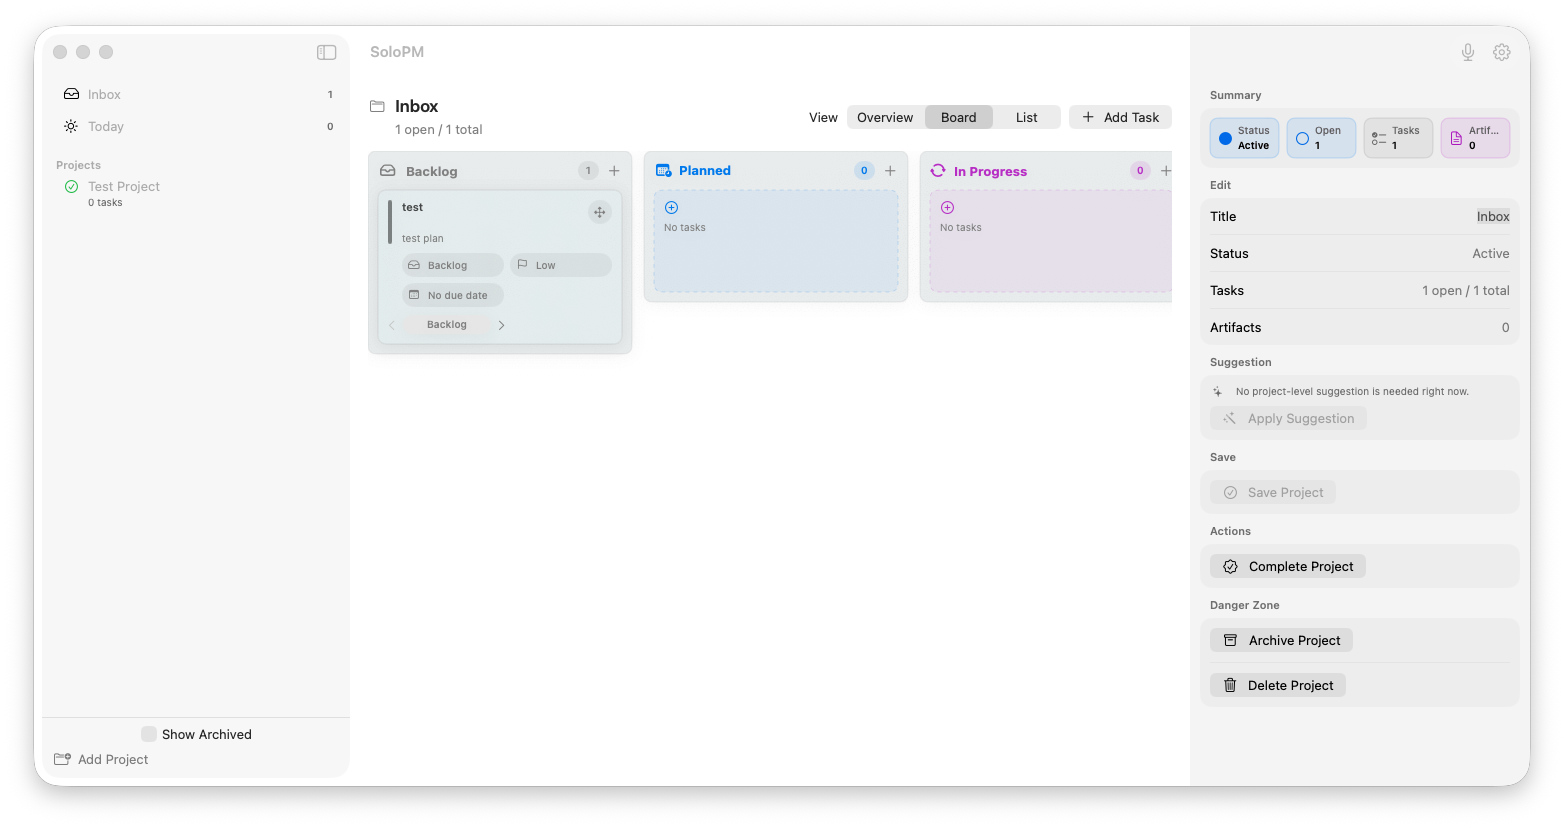
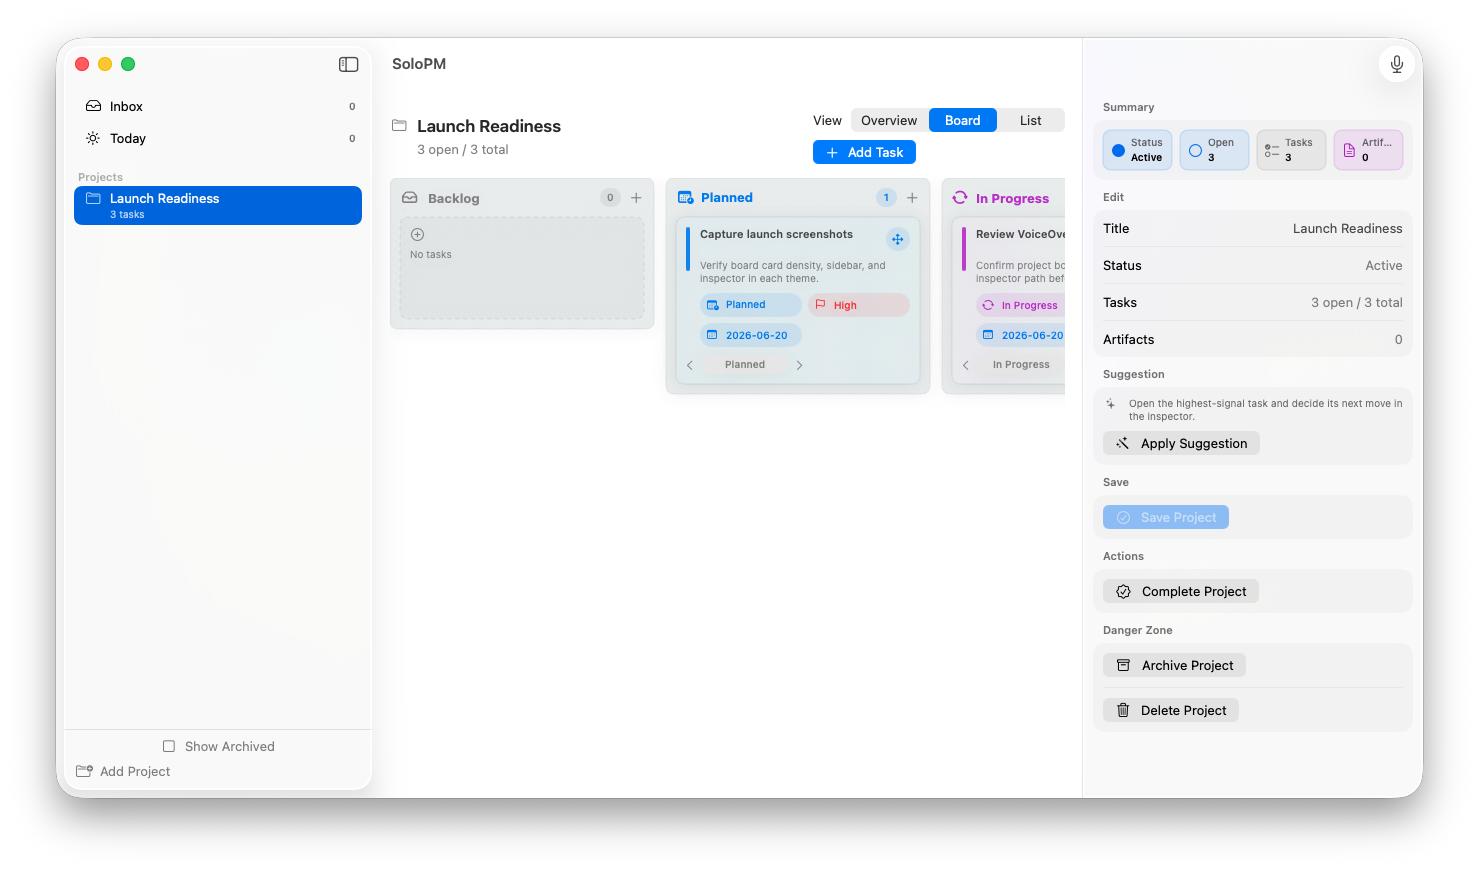
fix: move theme access to settings

diff --git a/Tests/SoloPMCoreTests/AppExperienceSourceTests.swift b/Tests/SoloPMCoreTests/AppExperienceSourceTests.swift
@@ -155,6 +155,8 @@ final class AppExperienceSourceTests: XCTestCase {
 
         XCTAssertTrue(sidebarSource.contains("Show Archived"))
         XCTAssertTrue(sidebarSource.contains("Add Project"))
+        XCTAssertFalse(sidebarSource.contains("SettingsLink"))
+        XCTAssertFalse(sidebarSource.contains("gearshape"))
         XCTAssertFalse(sidebarSource.contains("Theme"))
         XCTAssertFalse(sidebarSource.contains("Appearance"))
         XCTAssertFalse(sidebarSource.contains("SoloPMAppearancePreference"))
@@ -174,7 +176,10 @@ final class AppExperienceSourceTests: XCTestCase {
         let inspectorStart = try XCTUnwrap(boardSource.range(of: ".inspector(isPresented: inspectorBinding)"))
         let toolbarSource = String(boardSource[toolbarStart.lowerBound..<inspectorStart.lowerBound])
 
-        XCTAssertTrue(toolbarSource.contains("SettingsLink"))
+        XCTAssertFalse(toolbarSource.contains("SettingsLink"))
+        XCTAssertFalse(toolbarSource.contains("gearshape"))
+        XCTAssertFalse(toolbarSource.contains(".keyboardShortcut(\",\", modifiers: [.command])"))
+        XCTAssertFalse(toolbarSource.contains("Open Settings"))
         XCTAssertFalse(toolbarSource.contains("Theme"))
         XCTAssertFalse(toolbarSource.contains("Appearance"))
         XCTAssertFalse(toolbarSource.contains("SoloPMAppearancePreference"))
@@ -346,12 +351,15 @@ final class AppExperienceSourceTests: XCTestCase {
 
     func testProjectBoardExposesPrimaryCRUDKeyboardShortcuts() throws {
         let source = try readPackageFile("Sources/SoloPMApp/Views/ProjectBoardView.swift")
+        let appSource = try readPackageFile("Sources/SoloPMApp/SoloPMApp.swift")
 
         XCTAssertTrue(source.contains(".keyboardShortcut(\"n\", modifiers: [.command])"))
         XCTAssertTrue(source.contains(".keyboardShortcut(\"n\", modifiers: [.command, .shift])"))
-        XCTAssertTrue(source.contains(".keyboardShortcut(\",\", modifiers: [.command])"))
         XCTAssertTrue(source.contains(".help(\"Add a project\")"))
-        XCTAssertTrue(source.contains(".help(\"Open Settings\")"))
+        XCTAssertFalse(source.contains(".keyboardShortcut(\",\", modifiers: [.command])"))
+        XCTAssertFalse(source.contains(".help(\"Open Settings\")"))
+        XCTAssertTrue(appSource.contains("CommandGroup(replacing: .appSettings)"))
+        XCTAssertTrue(appSource.contains(".keyboardShortcut(\",\", modifiers: [.command])"))
     }
 
     func testInlineTaskComposerExposesKeyboardAndVoiceOverCreateAnchors() throws {

diff --git a/Tests/SoloPMCoreTests/ReleasePipelineTests.swift b/Tests/SoloPMCoreTests/ReleasePipelineTests.swift
@@ -2662,7 +2662,7 @@ final class ReleasePipelineTests: XCTestCase {
         XCTAssertTrue(script.contains("Sources/SoloPMApp/Views/ProjectWorkflowViews.swift::inbox-quick-add-button"))
         XCTAssertTrue(script.contains(#"Sources/SoloPMApp/Views/ProjectBoardView.swift::.keyboardShortcut(\"n\", modifiers: [.command])"#))
         XCTAssertTrue(script.contains(#"Sources/SoloPMApp/Views/ProjectBoardView.swift::.keyboardShortcut(\"n\", modifiers: [.command, .shift])"#))
-        XCTAssertTrue(script.contains(#"Sources/SoloPMApp/Views/ProjectBoardView.swift::.keyboardShortcut(\",\", modifiers: [.command])"#))
+        XCTAssertTrue(script.contains(#"Sources/SoloPMApp/SoloPMApp.swift::.keyboardShortcut(\",\", modifiers: [.command])"#))
         XCTAssertTrue(script.contains(#"Sources/SoloPMApp/Views/ProjectBoardView.swift::.keyboardShortcut(\"s\", modifiers: [.command])"#))
         XCTAssertTrue(script.contains("Sources/SoloPMApp/Views/ProjectBoardView.swift::.keyboardShortcut(.delete, modifiers: [.command])"))
         XCTAssertTrue(script.contains("Sources/SoloPMApp/Views/ProjectBoardView.swift::.keyboardShortcut(.return, modifiers: [.command])"))

diff --git a/Sources/SoloPMApp/SoloPMApp.swift b/Sources/SoloPMApp/SoloPMApp.swift
@@ -28,6 +28,14 @@ struct SoloPM: App {
                 .preferredColorScheme(effectiveAppearancePreference.colorScheme)
         }
         .defaultSize(width: 1180, height: 760)
+        .commands {
+            CommandGroup(replacing: .appSettings) {
+                SettingsLink {
+                    Label("Settings...", systemImage: "gearshape")
+                }
+                .keyboardShortcut(",", modifiers: [.command])
+            }
+        }
 
         Window("Voice Command", id: "voice-capture") {
             VoiceCaptureView(viewModel: AppRuntimeFactory.makeVoiceCaptureViewModel())

diff --git a/Sources/SoloPMApp/Views/ProjectBoardView.swift b/Sources/SoloPMApp/Views/ProjectBoardView.swift
@@ -107,12 +107,6 @@ struct ProjectBoardView: View {
                     } label: {
                         Label("Voice Command", systemImage: "mic")
                     }
-
-                    SettingsLink {
-                        Label("Settings", systemImage: "gearshape")
-                    }
-                    .keyboardShortcut(",", modifiers: [.command])
-                    .help("Open Settings")
                 }
             }
             .inspector(isPresented: inspectorBinding) {

diff --git a/docs/ux/click-path-audit.md b/docs/ux/click-path-audit.md
@@ -21,9 +21,9 @@
 
 | 画面 | 入口 | 現状 |
 | --- | --- | --- |
-| Project Board | 起動時のメインwindow、menu barの `Project Board`、board toolbar | SidebarにInbox、Today、Projectsが固定表示され、Project overview/board/list、task composer、inspector、Settings入口がある主要画面。 |
+| Project Board | 起動時のメインwindow、menu barの `Project Board` | SidebarにInbox、Today、Projectsが固定表示され、Project overview/board/list、task composer、inspectorを扱う主要画面。 |
 | Voice Command | board toolbarの `Voice Command`、menu barの `Voice Command` | CaptureとAI action reviewの導線がある。現状ではInboxの代替に近い。 |
-| Settings | board toolbarのgear、menu barのgear、macOS Settings scene | 先頭のStatus OverviewでAI Provider、MCP、Sync、Privacyを確認できる。詳細設定は下のFormに並ぶ。 |
+| Settings | macOS app menuの `Settings...`、menu barのgear、macOS Settings scene | 先頭のStatus OverviewでAI Provider、MCP、Sync、Privacyを確認できる。ThemeはSettings OverviewのAppearanceに集約する。 |
 | Inbox | sidebarの `Inbox` | 未処理taskを実データから表示し、Task化、Project化、今日へ予定、後で確認を選択中itemへ1クリックで適用できる。 |
 | Today | sidebarの `Today` | due/overdueの未完了taskを実データから表示し、overdue/today件数、local focus suggestion、30分単位のtime block、task inspectorへつながる。 |
 
@@ -55,7 +55,7 @@
 | Project提案適用 | sidebar project row -> inspector `Apply Suggestion` | 2 | Pass | 空Projectのfirst task作成、全Task完了Projectのcomplete、注目Taskを開く導線を外部LLMなしで実行する。 |
 | Project完了 | Project inspector -> `Complete Project` | 2 | Pass | headerから削除し、選択中Projectの操作をinspectorに集約した。 |
 | Project archive/delete | Project inspector -> action -> confirm | 3 | Pass | 破壊的操作なので確認があるのは妥当。 |
-| boardからSettingsを開く | toolbar gear | 1 | Pass | menu barからも2クリックで開ける。 |
+| Settingsを開く | macOS app menu `Settings...` または menu bar gear | 1-2 | Pass | Project Boardの右上には置かず、作業画面内のTheme/Settings重複導線をなくす。 |
 | Theme変更 | Settings -> Overview -> `Theme` segment | 2 | Pass | ThemeはSettings Overviewに集約済み。Project Boardのサイドバー下/右上にはTheme controlを置かない。 |
 | AI Provider状態確認 | Settings -> Status OverviewまたはAI tabのProvider Readiness summaryを見る | 1 | Pass | 現在のproviderと認証/承認状態は先頭で分かり、AI tabでは全providerの設定状態をprovider切替なしで確認できる。 |
 | AI Provider変更 | Settings -> provider picker -> provider | 2 | Pass | Provider選択時に自動保存されるため、保存ボタンを探す必要がない。AI Provider readiness rowで選択中providerの状態、smoke readiness、次の操作がすぐ分かる。 |
@@ -102,7 +102,7 @@ PR未作成のため、現時点ではcurrent branchの改善commitとsource tes
 | Review Execute artifact作成 | Action Planのfilesystem artifact作成が `projectId` / `taskId` を持つ場合、作成ファイルと同時にlocal SQLite artifact linkを作り、Project OverviewのArtifactsへ戻す。 | `Sources/SoloPMCore/Tools/SystemTools.swift`, `Sources/SoloPMCore/Tools/SystemToolClients.swift`, `Sources/SoloPMApp/SoloPMApp.swift` | `SystemToolTests.testFileSystemToolPersistsCreatedArtifactLinkWhenProjectIDIsProvided`, `AppExperienceSourceTests.testRuntimeAppCompositionDoesNotUseDemoOrInMemorySuccessPath` |
 | Inbox capture / triage | MenuBar Quick AddまたはInbox headerから実タスクを作り、item選択後にMake Task、Make Project、Schedule Today、Review Laterを1クリックで実mutationへ送る。 | `Sources/SoloPMApp/SoloPMApp.swift`, `Sources/SoloPMApp/Views/ProjectWorkflowViews.swift`, `Sources/SoloPMCore/App/ProjectBoard.swift` | `AppExperienceSourceTests.testMenuBarPanelProvidesFastInboxCaptureWithRuntimeBoardViewModel`, `ProjectBoardStoreTests.testProjectBoardViewModelQuickCapturesInboxTaskAndNotifies`, `ProjectBoardStoreTests.testProjectBoardViewModelQuickCapturePersistsToSQLiteInbox`, `ProjectBoardStoreTests.testProjectBoardViewModelInboxClassificationShowsFeedbackAdvancesSelectionAndUndo`, `ProjectBoardStoreTests.testSQLiteBoardStorePersistsInboxClassificationUndo` |
 | Today planning | sidebarから1クリックでdue/overdue、focus suggestion、time blockを確認する。 | `Sources/SoloPMApp/Views/ProjectWorkflowViews.swift`, `Sources/SoloPMCore/App/ProjectBoard.swift` | `AppExperienceSourceTests.testTodayWorkflowShowsRecommendationDueCountsAndTimeBlocks`, `ProjectBoardStoreTests.testProjectBoardViewModelBuildsDeterministicTodayPlanWithTimeBlocks` |
-| Settings overview / Theme | toolbar gearから1クリックでSettingsを開き、Status OverviewとTheme segmentをSettings内へ集約する。 | `Sources/SoloPMApp/SoloPMApp.swift` | `AppExperienceSourceTests.testSettingsSurfaceStartsWithStatusOverviewForCoreOperationalAreas`, `AppExperienceSourceTests.testAppearanceSelectionIsConfiguredOnlyFromSettings`, `AppExperienceSourceTests.testProjectBoardSidebarAndToolbarDoNotHostThemeControls` |
+| Settings overview / Theme | macOS app menuまたはmenu bar panelからSettingsを開き、Status OverviewとTheme segmentをSettings内へ集約する。Project Boardのサイドバー下/右上にはTheme/Settings controlを置かない。 | `Sources/SoloPMApp/SoloPMApp.swift` | `AppExperienceSourceTests.testSettingsSurfaceStartsWithStatusOverviewForCoreOperationalAreas`, `AppExperienceSourceTests.testAppearanceSelectionIsConfiguredOnlyFromSettings`, `AppExperienceSourceTests.testProjectBoardSidebarAndToolbarDoNotHostThemeControls` |
 | AI Provider readiness row | Provider picker直下に選択中providerの状態、smoke readiness、次の操作を表示し、API keyやlocal executionの不足を詳細field前に分かるようにする。 | `Sources/SoloPMApp/SoloPMApp.swift` | `AppExperienceSourceTests.testAISettingsTabShowsSelectedProviderReadinessBeforeProviderFields` |
 | AI Provider readiness summary | AI tab内に全providerの状態を短いsummaryとして表示し、provider切替なしでKeychain/API/local executionの不足を把握できるようにする。 | `Sources/SoloPMApp/SoloPMApp.swift`, `Sources/SoloPMCore/App/AppSettings.swift` | `AppExperienceSourceTests.testAISettingsTabShowsSelectedProviderReadinessBeforeProviderFields`, `AppSettingsTests.testAppSettingsViewModelBuildsProviderReadinessRowsWithoutSecrets` |
 | AI provider設定 | provider pickerの選択を自動保存し、選択中providerのfieldだけを表示する。 | `Sources/SoloPMApp/SoloPMApp.swift`, `Sources/SoloPMCore/App/AppSettings.swift`, `Sources/SoloPMCore/App/LLMProviderCatalog.swift` | `AppExperienceSourceTests.testAISettingsTabShowsOnlySelectedProviderFields`, `AppSettingsTests.testAppSettingsViewModelPersistsProviderSelectionWhenSelected` |

diff --git a/tasks/Phase10-ReleaseReadinessRuntime.md b/tasks/Phase10-ReleaseReadinessRuntime.md
@@ -974,7 +974,7 @@
 
 ### P10-125: Settings-only theme switching and mouse drag affordances stay discoverable
 
-- [x] Project Board の左サイドバーと右上ヘッダーから appearance control を削除し、Theme 変更は Settings 画面の `Theme` picker だけにする。
+- [x] Project Board の左サイドバーと右上ヘッダーから appearance / Settings control を削除し、Theme 変更は Settings 画面の `Theme` picker だけにする。
 - [x] Scene-level `.preferredColorScheme(effectiveAppearancePreference.colorScheme)` と Settings の同じ `@AppStorage` key を使い、通常画面ごとにテーマ状態が分岐しない。UI evidence capture時だけ `SOLOPM_APPEARANCE_PREFERENCE` でLight/Dark/Systemを明示できる。
 - [x] Kanban task card の drag operation は raw payload 文字列ではなく、タスクカードとして認識できる preview を表示する。
 - [x] `AppExperienceSourceTests` で Project Board 内に appearance control が残らず、Settings にだけ Theme picker があることを固定する。

diff --git a/tasks/Phase11-ProviderSyncUXProductization.md b/tasks/Phase11-ProviderSyncUXProductization.md
@@ -187,7 +187,7 @@
 
 ## P11-033: Keyboard and accessibility pass
 
-- [x] `Command+N` は選択中ProjectにTask追加、`Command+Shift+N` はProject追加、`Command+,` はSettingsに割り当てる。
+- [x] `Command+N` は選択中ProjectにTask追加、`Command+Shift+N` はProject追加、`Command+,` はProject Board toolbarではなくmacOS app menuのSettingsに割り当てる。
 - [x] Drag操作の代替として、カード上のMoveボタンとcontext menuを維持する。
 - [x] Task / Project inspector は `Command+S` で保存、`Command+Return` で提案適用、`Command+Delete` で削除確認を開ける。
 - [ ] VoiceOver label、focus order、button help、destructive confirmationを確認する。

diff --git a/docs/release/evidence/ui-screenshots.md b/docs/release/evidence/ui-screenshots.md
@@ -2,7 +2,7 @@
 
 Generated with `script/capture_ui_evidence.sh`.
 
-- Generated at: `2026-06-19T01:37:09Z`
+- Generated at: `2026-06-19T09:26:36Z`
 - App bundle: `dist/SoloPM.app`
 - Data isolation: isolated temporary HOME via `HOME` and `CFFIXED_USER_HOME`
 - Seed data: local `Launch Readiness` project with planned, in-progress, and blocked task cards plus deterministic MCP registration rows
